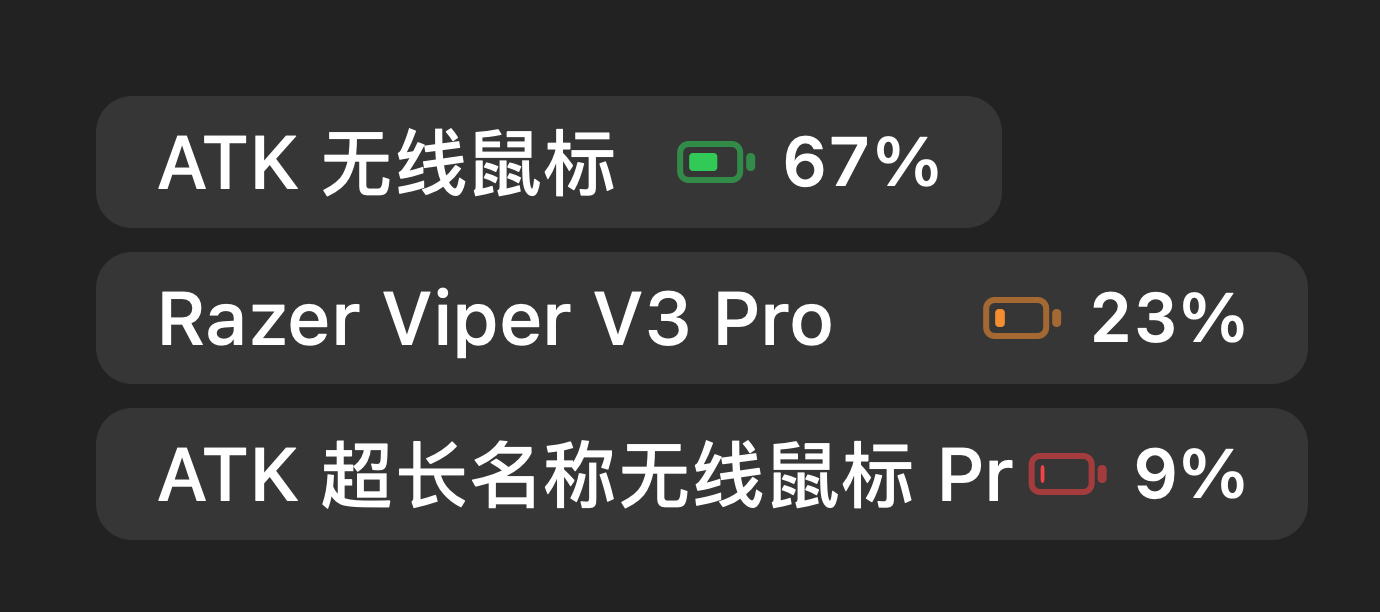
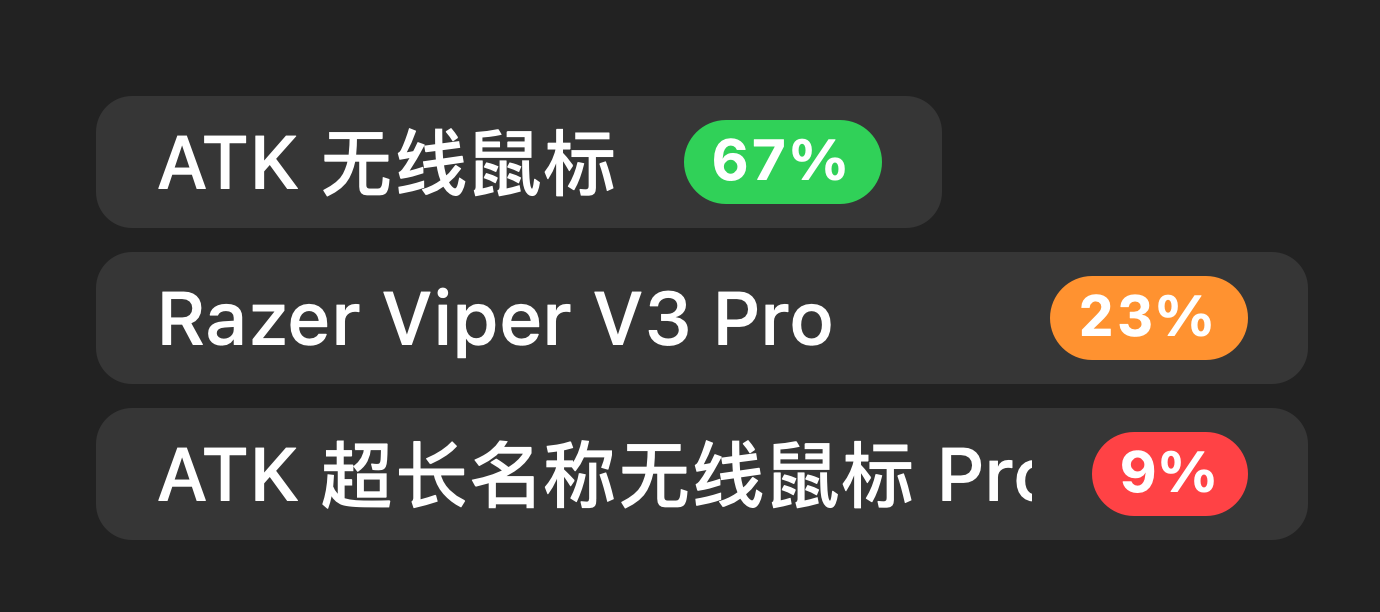
Draw the menu bar level as a capsule with the percentage inside
The 5pt dot was tidy but carried little: it duplicated a number that was
already there and showed nothing about charging. The level is now a filled
capsule whose colour is the level and whose text is the percentage, with a
bolt inside while charging. The colour keeps meaning the level, so green
never has to mean two things at once.

The capsule is right-aligned and cannot scroll, so the status item is now
sized for the widest device in the list rather than the first one: the
active device may be charging (a bolt wider) or read "100%" while the
first reads "9%", which used to clip the name.

Charging also made it into the tooltip and the accessibility description,
and the README screenshot is regenerated.

Changed region(s): [[0.4674, 0.1863, 0.6855, 0.3415], [0.6855, 0.4346, 0.9036, 0.5899], [0.7167, 0.683, 0.9036, 0.8693]]

diff --git a/macos/BattBar/Sources/MenuBar/MenuBarContentView.swift b/macos/BattBar/Sources/MenuBar/MenuBarContentView.swift
@@ -4,7 +4,6 @@ final class MenuBarContentView: NSView {
     static let maxWidth: CGFloat = 198
     static let minWidth: CGFloat = 118
     private static let nameFont = NSFont.systemFont(ofSize: 12.5, weight: .medium)
-    private static let batteryFont = NSFont.monospacedDigitSystemFont(ofSize: 11.5, weight: .semibold)
     private static let emptyFont = NSFont.systemFont(ofSize: 11.5, weight: .regular)
 
     var onToggle: (() -> Void)?
@@ -116,17 +115,20 @@ final class MenuBarContentView: NSView {
     private func updateOverflow() {
         guard let device = currentDevice else { overflow = 0; return }
         let nameWidth = Self.textWidth(device.name, font: Self.nameFont)
-        let batteryWidth = Self.textWidth(device.menuBatteryText, font: Self.batteryFont)
         // Keep the exact same measurement as the clip rect in draw(device:).
-        let nameArea = max(0, bounds.width - 8 - 27 - batteryWidth)
+        let nameArea = max(0, bounds.width - 8 - Self.capsuleWidth(for: device) - 10 - 7)
         overflow = max(0, nameWidth - nameArea + 1)
     }
 
+    /// Width the status item should reserve. The capsule is right-aligned and
+    /// cannot scroll, so it is sized for the widest device in the list: the
+    /// active device can be charging (a bolt wider) or read "100%" while the
+    /// first one reads "9%".
     static func preferredWidth(for devices: [MouseDevice]) -> CGFloat {
         guard let device = devices.first else { return 126 }
         let nameWidth = min(textWidth(device.name, font: nameFont), 132)
-        let batteryWidth = textWidth(device.menuBatteryText, font: batteryFont)
-        let width = min(maxWidth, max(minWidth, 8 + nameWidth + 10 + 5 + 12 + batteryWidth + 8))
+        let capsule = devices.map { capsuleWidth(for: $0) }.max() ?? capsuleWidth(for: device)
+        let width = min(maxWidth, max(minWidth, 8 + nameWidth + 10 + capsule + 8))
         return ceil(width)
     }
 
@@ -162,29 +164,42 @@ final class MenuBarContentView: NSView {
     }
 
     private func draw(device: MouseDevice, yOffset: CGFloat, alpha: CGFloat) {
+        // The level is a filled capsule with the percentage inside it: the colour
+        // reads at a glance and the number stays readable. Charging only adds a
+        // bolt, so the level colour keeps its meaning.
+        let capsule = NSRect(
+            x: bounds.width - 8 - Self.capsuleWidth(for: device),
+            y: (bounds.height - Capsule.height) / 2 + yOffset,
+            width: Self.capsuleWidth(for: device),
+            height: Capsule.height
+        )
+        let fill = device.isStale || device.battery == nil
+            ? NSColor.secondaryLabelColor
+            : Self.levelColor(for: device)
+        fill.withAlphaComponent(alpha * (device.isStale ? 0.55 : 1)).setFill()
+        NSBezierPath(roundedRect: capsule, xRadius: Capsule.height / 2, yRadius: Capsule.height / 2).fill()
+
+        var textX = capsule.minX + Capsule.padding
+        if device.charging == true {
+            drawBolt(
+                in: NSRect(x: textX, y: capsule.midY - Capsule.boltHeight / 2,
+                           width: Capsule.boltWidth, height: Capsule.boltHeight),
+                alpha: alpha
+            )
+            textX += Capsule.boltWidth + Capsule.boltGap
+        }
+
         let batteryText = device.menuBatteryText as NSString
-        let batteryAttributes: [NSAttributedString.Key: Any] = [
-            .font: Self.batteryFont,
-            .foregroundColor: device.isStale ? NSColor.secondaryLabelColor : NSColor.labelColor,
-        ]
-        let batterySize = batteryText.size(withAttributes: batteryAttributes)
-        let batteryX = bounds.width - 8 - batterySize.width
-
-        drawBatteryGlyph(
-            x: batteryX - 17,
-            y: (bounds.height - 6) / 2 + yOffset,
-            fraction: CGFloat(device.battery ?? 0) / 100,
-            color: dotColor(for: device),
-            alpha: alpha,
-            stale: device.isStale
-        )
-
+        let batterySize = batteryText.size(withAttributes: [.font: Capsule.font])
         batteryText.draw(
-            at: NSPoint(x: batteryX, y: (bounds.height - batterySize.height) / 2 + yOffset),
-            withAttributes: batteryAttributes.merging([.foregroundColor: NSColor.labelColor.withAlphaComponent(alpha)]) { _, new in new }
+            at: NSPoint(x: textX, y: capsule.minY + (Capsule.height - batterySize.height) / 2),
+            withAttributes: [
+                .font: Capsule.font,
+                .foregroundColor: NSColor.white.withAlphaComponent(alpha),
+            ]
         )
 
-        let available = max(0, batteryX - 27)
+        let available = max(0, capsule.minX - 10 - 7)
         let nameAttributes: [NSAttributedString.Key: Any] = [
             .font: Self.nameFont,
             .foregroundColor: NSColor.labelColor.withAlphaComponent(alpha),
@@ -206,48 +221,39 @@ final class MenuBarContentView: NSView {
         NSGraphicsContext.restoreGraphicsState()
     }
 
-    private func drawBatteryGlyph(
-        x: CGFloat,
-        y: CGFloat,
-        fraction: CGFloat,
-        color: NSColor,
-        alpha: CGFloat,
-        stale: Bool
-    ) {
-        let body = NSRect(x: x, y: y, width: 10, height: 6)
-        let outline = NSBezierPath(roundedRect: body, xRadius: 1.4, yRadius: 1.4)
-        outline.lineWidth = 1
-        // A stale reading still has a level worth showing: keep the same shape,
-        // just muted, so an idle mouse does not read as an empty battery.
-        color.withAlphaComponent(alpha * (stale ? 0.85 : 0.55)).setStroke()
-        outline.stroke()
-
-        let innerWidth = max(0, (body.width - 3) * min(1, max(0, fraction)))
-        if innerWidth > 0 {
-            let fill = NSBezierPath(
-                roundedRect: NSRect(x: body.minX + 1.5, y: body.minY + 1.5, width: innerWidth, height: body.height - 3),
-                xRadius: 0.6,
-                yRadius: 0.6
-            )
-            color.withAlphaComponent(alpha * (stale ? 0.55 : 0.95)).setFill()
-            fill.fill()
-        }
-
-        let cap = NSBezierPath(
-            roundedRect: NSRect(x: body.maxX + 1, y: body.midY - 1.5, width: 1.5, height: 3),
-            xRadius: 0.7,
-            yRadius: 0.7
-        )
-        color.withAlphaComponent(alpha * (stale ? 0.85 : 0.55)).setFill()
-        cap.fill()
+    /// Capsule geometry. `capsuleWidth(for:)` measures with `Capsule.font`, so
+    /// the reserved width and the drawn width cannot drift apart.
+    private enum Capsule {
+        static let font = NSFont.monospacedDigitSystemFont(ofSize: 9.5, weight: .bold)
+        static let height: CGFloat = 14
+        static let padding: CGFloat = 4.5
+        static let boltWidth: CGFloat = 7
+        static let boltHeight: CGFloat = 9
+        static let boltGap: CGFloat = 2
     }
 
-    private func dotColor(for device: MouseDevice) -> NSColor {
+    /// Width of the capsule for `device`, including the bolt when charging.
+    static func capsuleWidth(for device: MouseDevice) -> CGFloat {
+        let size = (device.menuBatteryText as NSString).size(withAttributes: [.font: Capsule.font])
+        let bolt = device.charging == true ? Capsule.boltWidth + Capsule.boltGap : 0
+        return ceil(size.width + bolt + Capsule.padding * 2)
+    }
+
+    private static func levelColor(for device: MouseDevice) -> NSColor {
         guard let battery = device.battery else { return .tertiaryLabelColor }
-        if device.isStale { return .secondaryLabelColor }
         if battery <= 20 { return .systemRed }
         if battery <= 40 { return .systemOrange }
         return .systemGreen
+    }
+
+    private func drawBolt(in rect: NSRect, alpha: CGFloat) {
+        let configuration = NSImage.SymbolConfiguration(pointSize: Capsule.boltHeight, weight: .bold)
+            .applying(NSImage.SymbolConfiguration(paletteColors: [NSColor.white.withAlphaComponent(alpha)]))
+        guard let bolt = NSImage(systemSymbolName: "bolt.fill", accessibilityDescription: "充电中")?
+            .withSymbolConfiguration(configuration) else {
+            return
+        }
+        bolt.draw(in: rect)
     }
 
     override func mouseDown(with event: NSEvent) {

diff --git a/macos/BattBar/Sources/MenuBar/StatusItemController.swift b/macos/BattBar/Sources/MenuBar/StatusItemController.swift
@@ -87,7 +87,8 @@ final class StatusItemController: NSObject {
 
     private func updateTooltip(devices: [MouseDevice]) {
         let lines = devices.map { device in
-            "\(device.name)：\(device.isStale ? "上次读数 " : "")\(device.batteryText)"
+            let charging = device.charging == true ? "，充电中" : ""
+            return "\(device.name)：\(device.isStale ? "上次读数 " : "")\(device.batteryText)\(charging)"
         }
         statusItem.button?.toolTip = lines.isEmpty ? "电量栏 · 未发现鼠标" : lines.joined(separator: "\n")
         statusItem.button?.setAccessibilityLabel(

diff --git a/macos/BattBar/Sources/Providers/Models.swift b/macos/BattBar/Sources/Providers/Models.swift
@@ -70,7 +70,8 @@ struct MouseDevice: Identifiable, Equatable {
     }
 
     var accessibilityDescription: String {
-        "\(name)，\(isStale ? "上次读数 " : "")\(batteryText)"
+        let charging = charging == true ? "，充电中" : ""
+        return "\(name)，\(isStale ? "上次读数 " : "")\(batteryText)\(charging)"
     }
 }
 

diff --git a/README.en.md b/README.en.md
@@ -15,7 +15,7 @@ BattBar is a tiny menu bar / system tray utility for wireless peripheral battery
 
 ## Features
 
-- **Device name + battery in the menu bar** — e.g. `ATK 无线鼠标 ● 67%`, with a color that reflects the level.
+- **Device name + battery in the menu bar** — the level is a colored capsule at the right (green >40%, orange ≤40%, red ≤20%). While charging the capsule gains a small bolt and keeps its color.
 - **Horizontal marquee for long names** — names wider than the available menu bar space scroll at 24 pt/s; short names stay still.
 - **Vertical rotation for multiple devices** — switches devices every 5.5 seconds; you can also select one in the panel.
 - **Hide while another app is fullscreen** — hides the status item and pauses polling; restores automatically when fullscreen ends.

diff --git a/README.md b/README.md
@@ -15,7 +15,7 @@ BattBar 是一个常驻菜单栏 / 系统托盘的无线外设电量工具，当
 
 ## 现在能做什么
 
-- **菜单栏直接显示名称 + 电量**：例如 `ATK 无线鼠标 ● 67%`，颜色随电量变化。
+- **菜单栏直接显示名称 + 电量**：电量是右下角的彩色胶囊（绿 >40%、橙 ≤40%、红 ≤20%），充电时胶囊里多一个小闪电，颜色不变。
 - **长名字自动左右滚动**：名称超出菜单栏可用宽度时以 24 pt/s 跑马灯展示；短名字不滚动。
 - **多设备上下轮播**：同时发现多个鼠标时，菜单栏每 5.5 秒上下切换一台；也可以在面板里选择设备。
 - **其他 App 全屏时自动隐藏**：检测到全屏窗口时隐藏菜单栏项、暂停轮询；退出全屏后自动恢复。
